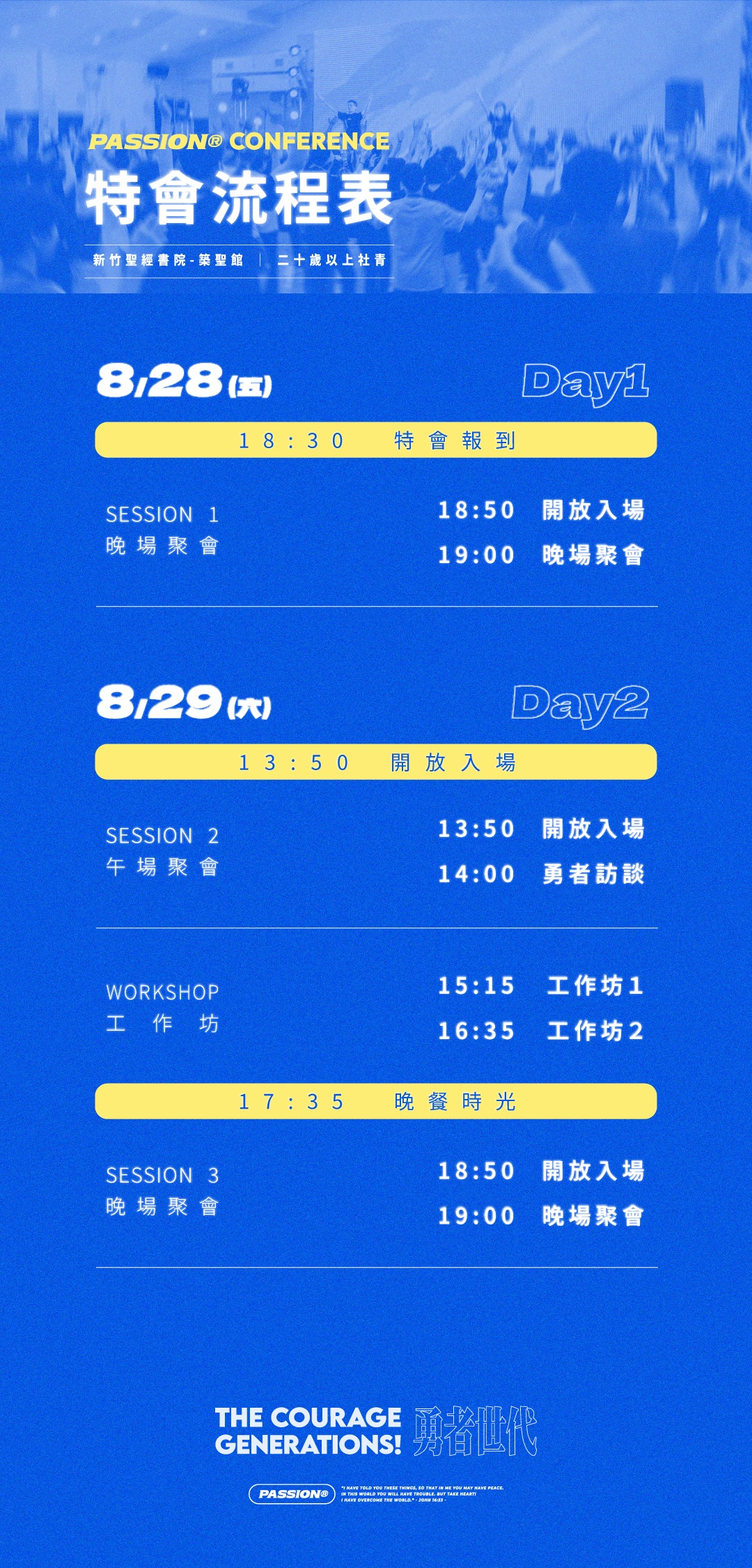
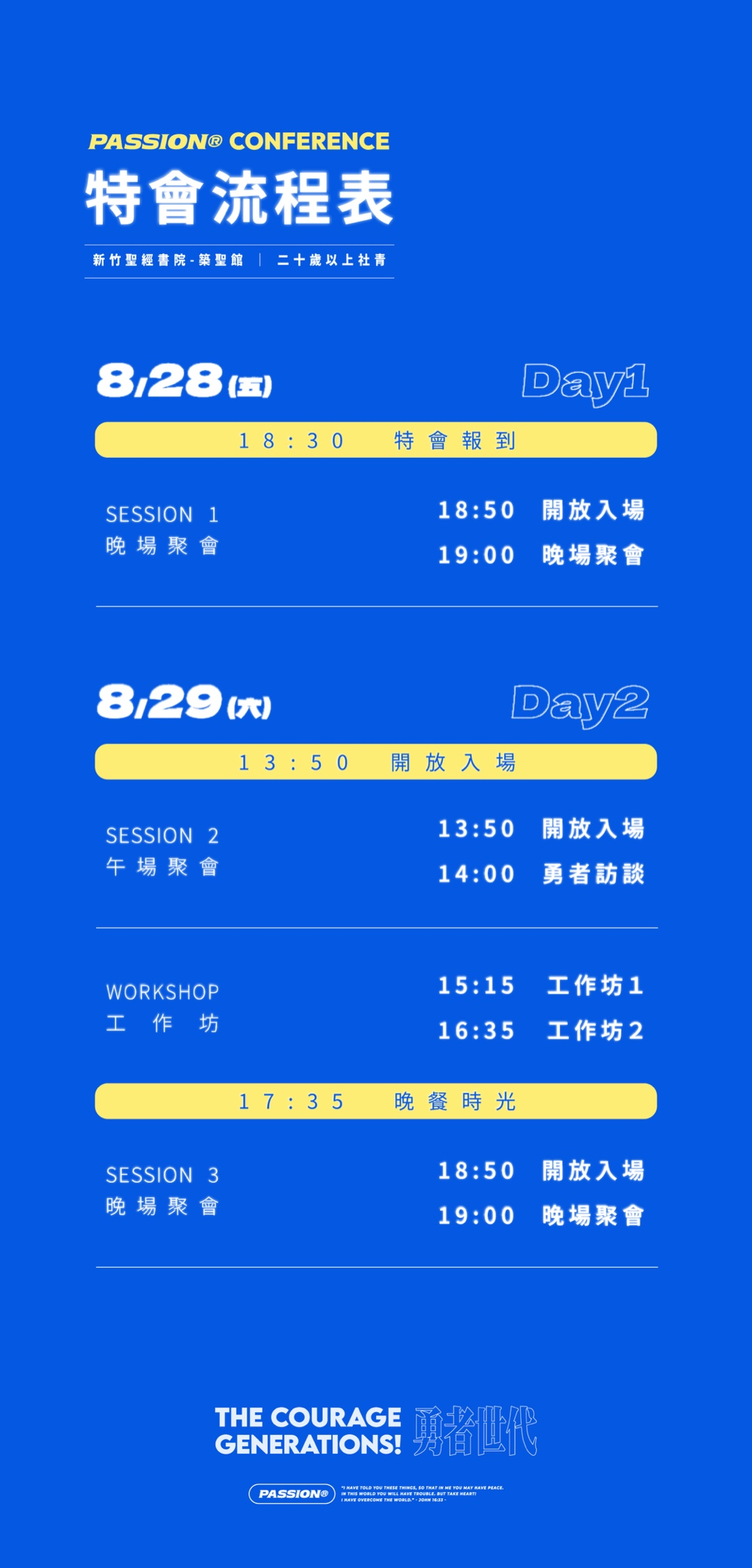
feat(conference): 開場移除工作坊介紹頁，經文禱告卡結束直接完成開場
依需求把「工作坊介紹」整頁從 CONF 開場流程拿掉：CONFERENCE_STEPS
移除 onboarding、ConferenceFlowScreens 不再導向它、經文禱告卡最後
一頁的按鈕從「下一步→onboarding」改成直接送出 completeOpening
表單（跟原本 onboarding 頁的「完成」按鈕同一套邏輯），標記流程完成
後直接進 CONF 主頁。

刪掉變成孤兒的元件（conference-onboarding-step.tsx）跟它專用的
四張去背人像圖（image、infoImage 兩個欄位不受影響，工作坊卡片跟
彈窗不變）。

順便重新上傳一版聚會流程表圖片（活動組更新版）。

diff --git a/components/opening/conference/conference-verse-prayer-step.tsx b/components/opening/conference/conference-verse-prayer-step.tsx
@@ -12,6 +12,7 @@ import { downloadNodeAsImage } from "@/lib/export-image"
 import { Button } from "@/components/ui/button"
 import { OpeningTransitionProvider } from "@/components/opening/opening-transition"
 import { conferenceStepFromPath, type ConferenceStep } from "@/lib/opening-steps"
+import { completeOpening } from "@/app/opening/actions"
 
 function VersePrayerContent({
   name,
@@ -23,7 +24,10 @@ function VersePrayerContent({
   categoryKey?: "A" | "B" | "C" | "D"
 }) {
   const { index } = useImmersiveNav()
-  const advance = useOpeningStepAdvance("/opening/conference/onboarding")
+  // 經文禱告卡結束後直接完成開場（不再進工作坊介紹頁），所以這裡不需要
+  // nextRoute——最後一頁改用下面的「完成」表單直接送出，不是靠 advance()
+  // 導頁過去。
+  const advance = useOpeningStepAdvance(null)
   const exportRef = useRef<HTMLDivElement>(null)
   const content = getVersePrayerContent(selectedItemId)
 
@@ -59,9 +63,18 @@ function VersePrayerContent({
             儲存圖片
           </Button>
         )}
-        <Button size="lg" onClick={advance}>
-          下一步
-        </Button>
+        {isVersePage ? (
+          <Button size="lg" onClick={advance}>
+            下一步
+          </Button>
+        ) : (
+          <form action={completeOpening}>
+            <input type="hidden" name="flow" value="conference" />
+            <Button size="lg" type="submit">
+              完成
+            </Button>
+          </form>
+        )}
       </div>
 
       {/* 用 opacity-0 而不是移到畫面外：手機瀏覽器（尤其 iOS Safari）會把定位在可視範圍外的 canvas 內容釋放掉，

diff --git a/lib/opening-conference-content.ts b/lib/opening-conference-content.ts
@@ -191,9 +191,6 @@ export type ConferenceWorkshop = {
   // 彈窗裡「工作坊資訊欄」上方的頭圖，跟上面卡片用的 image 是不同兩張圖。
   // 使用者說之後會另外上傳，先留 undefined，畫面上用色塊佔位。
   infoImage?: string
-  // 開場引導流程「工作坊介紹」那一頁用的去背人像圖，取代原本的講員／主題
-  // 文字介紹。跟 image（卡片縮圖）、infoImage（彈窗頭圖）又是不同的第三張圖。
-  introImage: string
 }
 
 export const conferenceWorkshops: ConferenceWorkshop[] = [
@@ -204,7 +201,6 @@ export const conferenceWorkshops: ConferenceWorkshop[] = [
     location: "地點待公布",
     rounds: ["R1"],
     image: "/images/conference-workshop-a.png",
-    introImage: "/images/conference-workshop-intro-a.png",
   },
   {
     id: "workshop-b",
@@ -213,7 +209,6 @@ export const conferenceWorkshops: ConferenceWorkshop[] = [
     location: "地點待公布",
     rounds: ["R1", "R2"],
     image: "/images/conference-workshop-b.png",
-    introImage: "/images/conference-workshop-intro-b.png",
   },
   {
     id: "workshop-c",
@@ -222,7 +217,6 @@ export const conferenceWorkshops: ConferenceWorkshop[] = [
     location: "地點待公布",
     rounds: ["R1", "R2"],
     image: "/images/conference-workshop-c.png",
-    introImage: "/images/conference-workshop-intro-c.png",
   },
   {
     id: "workshop-d",
@@ -231,7 +225,6 @@ export const conferenceWorkshops: ConferenceWorkshop[] = [
     location: "地點待公布",
     rounds: ["R1", "R2"],
     image: "/images/conference-workshop-d.png",
-    introImage: "/images/conference-workshop-intro-d.png",
   },
 ]
 

diff --git a/components/opening/conference/conference-flow-screens.tsx b/components/opening/conference/conference-flow-screens.tsx
@@ -4,7 +4,6 @@ import { useCallback, useState } from "react"
 import { ConferenceWelcomeStep } from "./conference-welcome-step"
 import { ConferenceHeartSelectStep } from "./conference-heart-select-step"
 import { ConferenceVersePrayerStep } from "./conference-verse-prayer-step"
-import { ConferenceOnboardingStep } from "./conference-onboarding-step"
 import type { ConferenceStep } from "@/lib/opening-steps"
 
 export function ConferenceFlowScreens({
@@ -23,7 +22,5 @@ export function ConferenceFlowScreens({
 
   if (step === "welcome") return <ConferenceWelcomeStep onStepChange={onStepChange} />
   if (step === "heart-select") return <ConferenceHeartSelectStep onStepChange={onStepChange} />
-  if (step === "verse-and-prayer")
-    return <ConferenceVersePrayerStep name={name} onStepChange={onStepChange} />
-  return <ConferenceOnboardingStep onStepChange={onStepChange} />
+  return <ConferenceVersePrayerStep name={name} onStepChange={onStepChange} />
 }

diff --git a/lib/opening-steps.ts b/lib/opening-steps.ts
@@ -12,7 +12,7 @@ export function campStepFromPath(path: string): CampStep {
   return (CAMP_STEPS as readonly string[]).includes(segment ?? "") ? (segment as CampStep) : "welcome"
 }
 
-export const CONFERENCE_STEPS = ["welcome", "heart-select", "verse-and-prayer", "onboarding"] as const
+export const CONFERENCE_STEPS = ["welcome", "heart-select", "verse-and-prayer"] as const
 export type ConferenceStep = (typeof CONFERENCE_STEPS)[number]
 
 export function resolveConferenceStep(slug: string[] | undefined): ConferenceStep | null {
